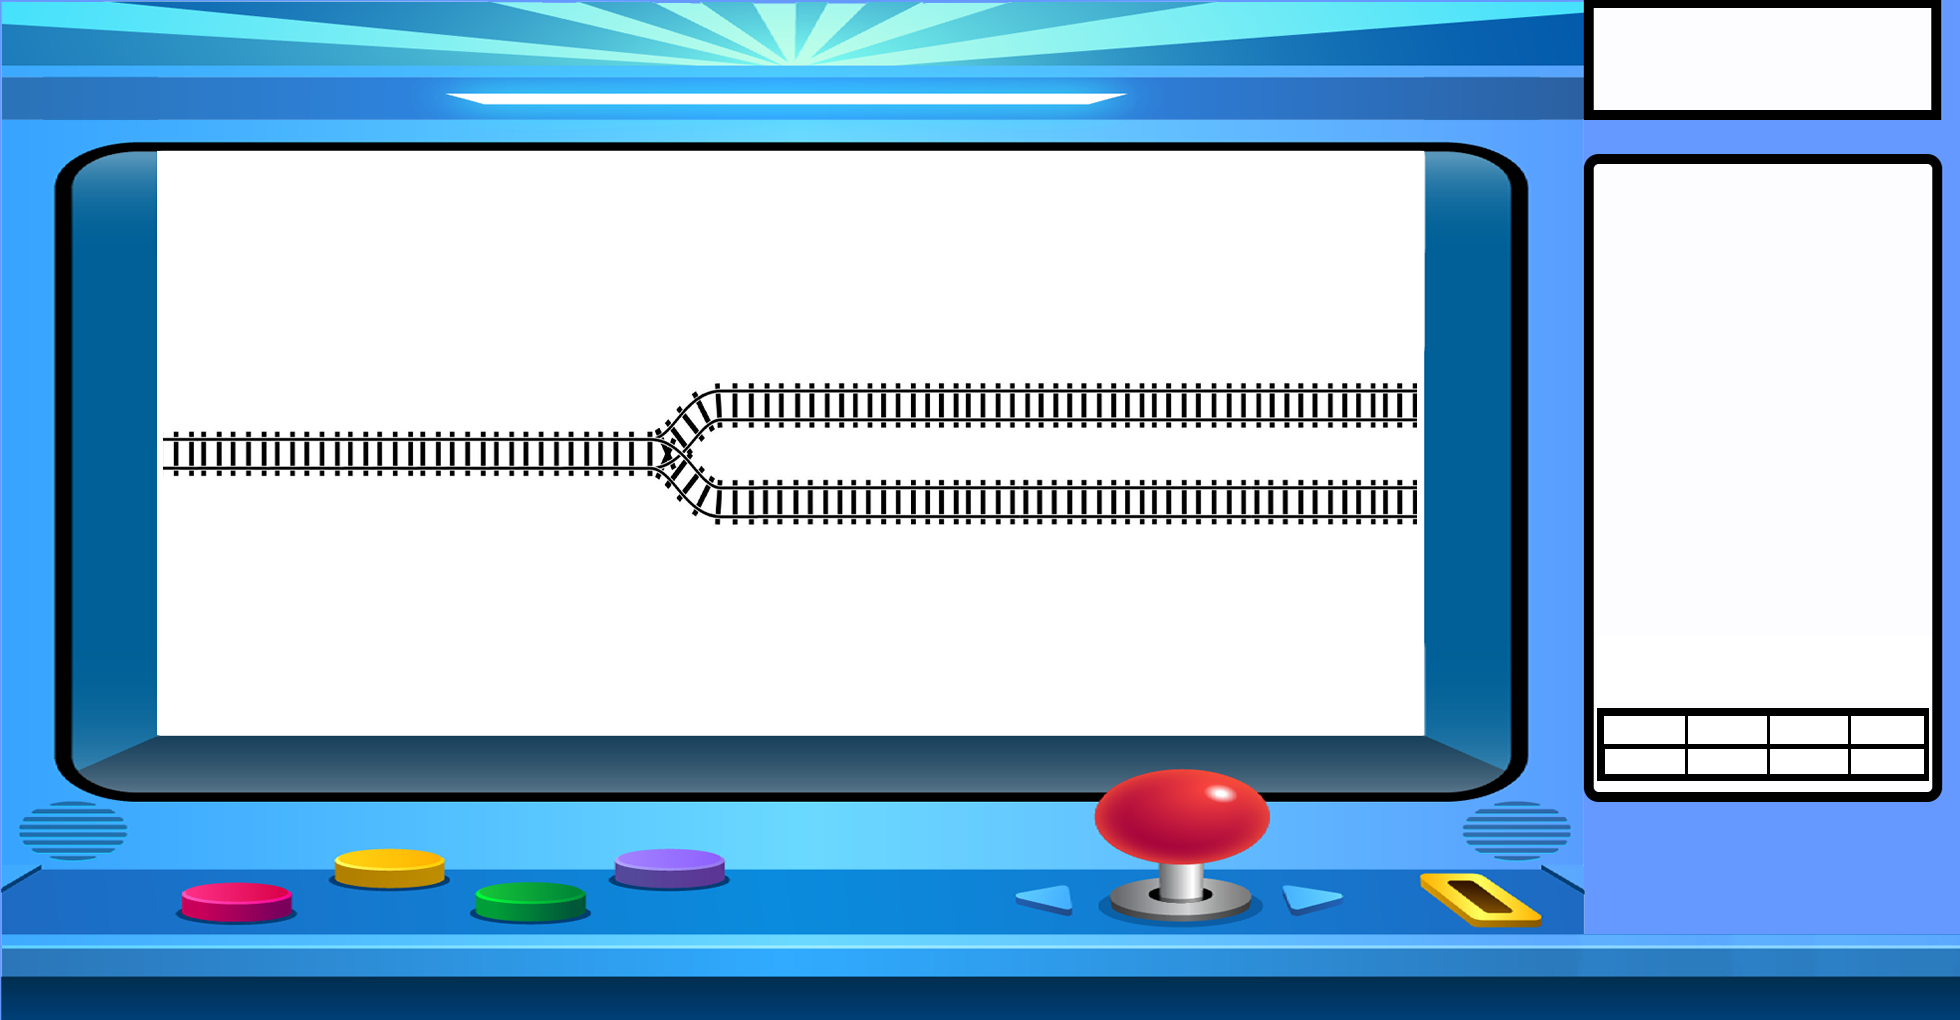
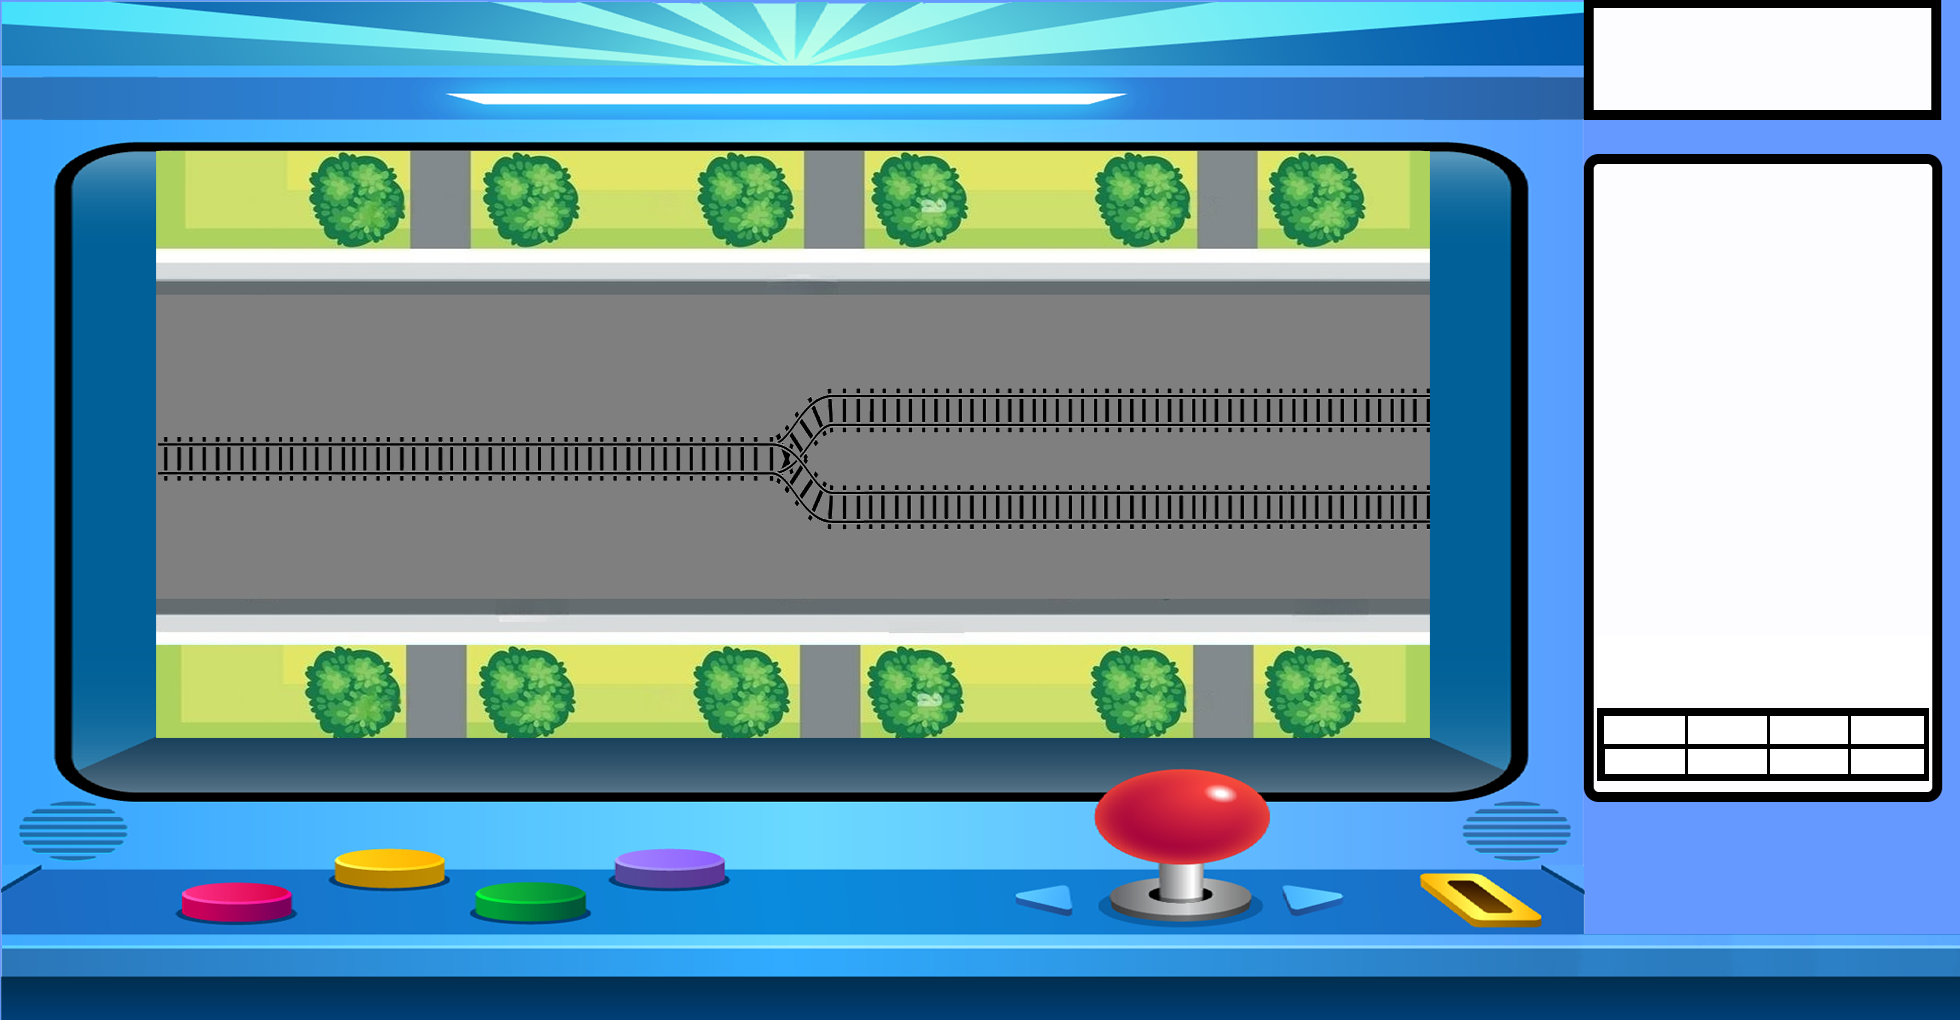
Interfaz y imagenes de elementos graficos.

diff --git a/Los 4 esquizofrenicos/src/los/pkg4/esquizofrenicos/FXMLInterfazController.java b/Los 4 esquizofrenicos/src/los/pkg4/esquizofrenicos/FXMLInterfazController.java
@@ -129,10 +129,10 @@ public class FXMLInterfazController implements Initializable {
          for (int i = 0; i < 16; i++) {
              int numero = (int) (Math.random()*(99+1));         //Falta agregarle posiciones 
              v[i]= new Vagon(numero,60,60,Color.BLACK);
+             v[i].v.setTranslateY(675);
+             v[i].v.setTranslateX(100 + i * 80);
              pane2.getChildren().add(v[i].v);
-            
         }
-         
 
         // Crea cuadrados
         StackPane pane = new StackPane();
@@ -141,7 +141,7 @@ public class FXMLInterfazController implements Initializable {
             r[i] = new Rectangulo(numero, 60, 60, Color.GREEN);
             r[i].r.setTranslateY(675);
             r[i].r.setTranslateX(100 + i * 80);
-            pane.getChildren().add(r[i].r);
+            //pane.getChildren().add(r[i].r);
         }
         animacion.canvasGruaBase = new Canvas(150, 50);
         animacion.canvasGruaIman = new Canvas(150, 60);
@@ -199,10 +199,10 @@ public class FXMLInterfazController implements Initializable {
             pane.getChildren().add(animacion.canvasGruaBase);
             root.getChildren().add(animacion.canvasGruaIman);
             root.getChildren().add(animacion.dibujar.cuerda);
+            root.getChildren().add(pane2);
         
             myAnchorPane.getChildren().add(root);
-            root.toBack();
-            pane.toFront();
+            root.toFront();
             Group root2 = new Group();
             root2.getChildren().add(velocidad);
             myAnchorPane.getChildren().add(root2);

diff --git a/Los 4 esquizofrenicos/src/los/pkg4/esquizofrenicos/Vagon.java b/Los 4 esquizofrenicos/src/los/pkg4/esquizofrenicos/Vagon.java
@@ -15,15 +15,13 @@ class Vagon {
     Canvas v;
 
     public Vagon(int valor, int altura, int ancho, Color color ) {
-        DibujarNumeros dibujar = new DibujarNumeros();   
+        Image image = new Image(getClass().getResourceAsStream("img/vagones.png"));
+        DibujarNumeros dibujar = new DibujarNumeros();  
         this.valor=valor;
-       this.v= new Canvas(altura,ancho);
-         GraphicsContext gc = v.getGraphicsContext2D();
-        
+        this.v= new Canvas(altura,ancho);
+        GraphicsContext gc = v.getGraphicsContext2D();
+        gc.drawImage(image, 0, 0);
     }
-    
-    
-    
     
 
     public Vagon() {

diff --git a/Los 4 esquizofrenicos/src/los/pkg4/esquizofrenicos/FXMLInterfazMenuController.java b/Los 4 esquizofrenicos/src/los/pkg4/esquizofrenicos/FXMLInterfazMenuController.java
@@ -20,11 +20,7 @@ import javafx.scene.control.Button;
 import javafx.scene.layout.AnchorPane;
 import javafx.stage.Stage;
 
-/**
- * FXML Controller class
- *
- * @author yanko
- */
+
 public class FXMLInterfazMenuController implements Initializable {
 
     @FXML
